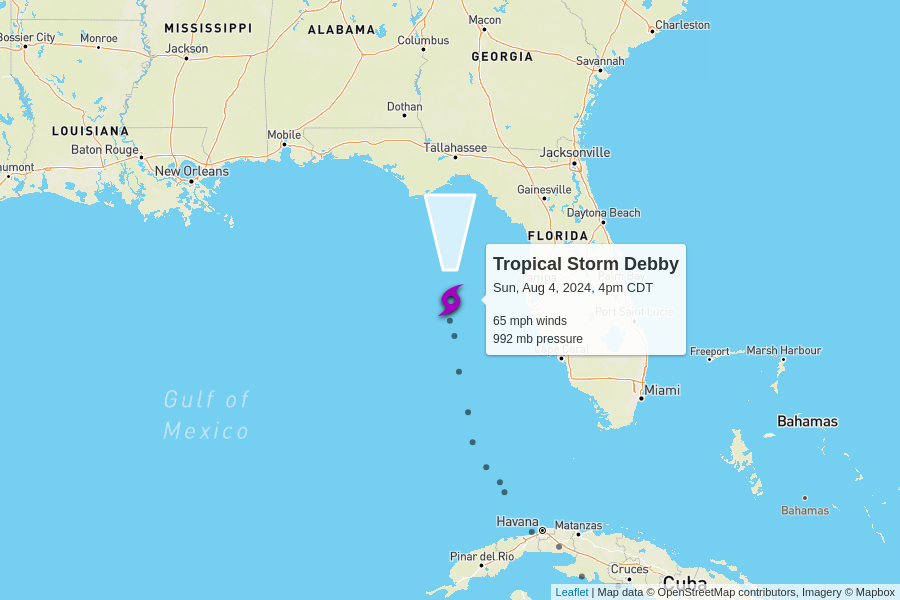
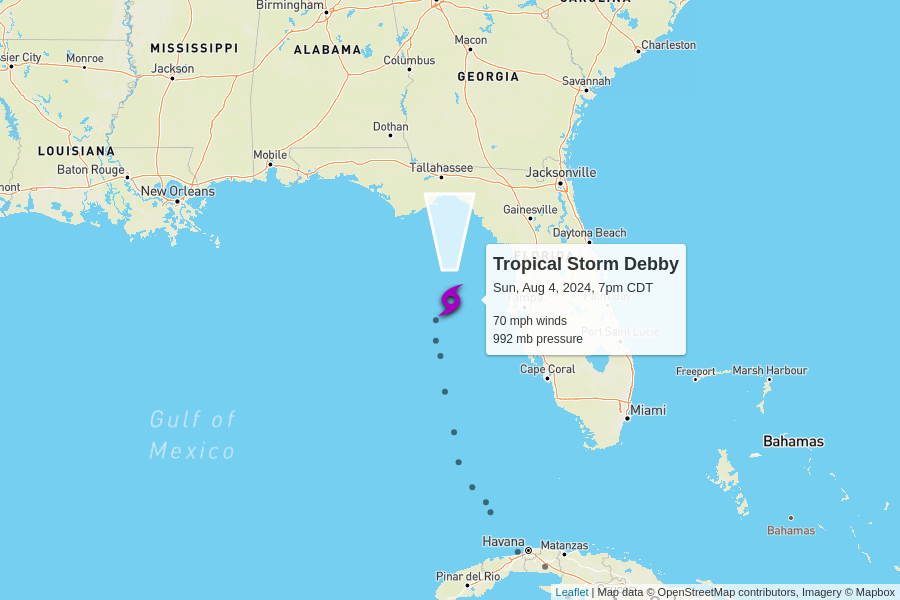
automatic update

diff --git a/docs/index.html b/docs/index.html
@@ -102,7 +102,7 @@
         <td colspan="6" class="storm category-0" >
           <h2>
             Tropical Storm Debby
-            <p class="updated">last updated <span data-time>2024-08-04T21:00:00.000Z</span></p>
+            <p class="updated">last updated <span data-time>2024-08-05T00:00:00.000Z</span></p>
           </h2>
         </td>
       </tr>
@@ -117,7 +117,7 @@
       </tr>
       <tr>
         <td class="spacer"></td>
-        <td>65 mph<br>0 mph since last update</td>
+        <td>70 mph<br>+5 mph since last update</td>
         <td>992 mb<br>0 mb since last update</td>
         <td>
           12 mph to the north
